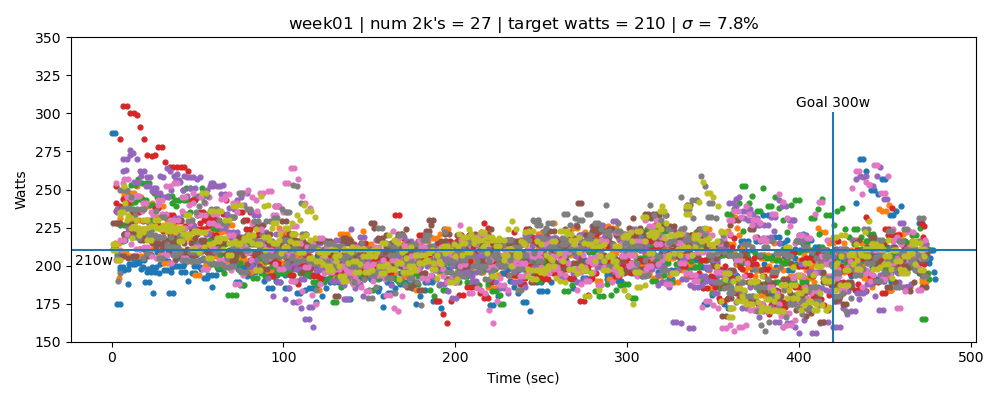
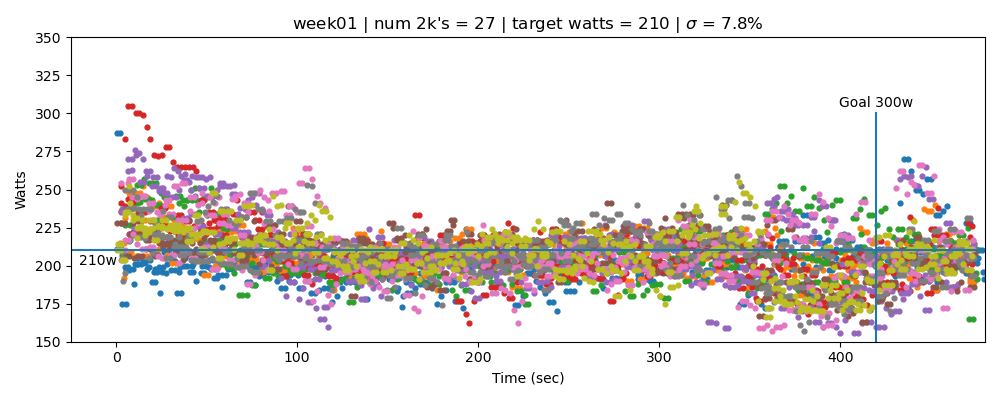
updated plots

diff --git a/plot_week.py b/plot_week.py
@@ -66,7 +66,7 @@ for df in df_list:
 print(' all data')    
 stats(yy)
 
-plt.ylim((-10,480))
+plt.xlim((-25,480))
 plt.ylim((150,350))
 plt.xlabel('Time (sec)')
 plt.ylabel('Watts')
